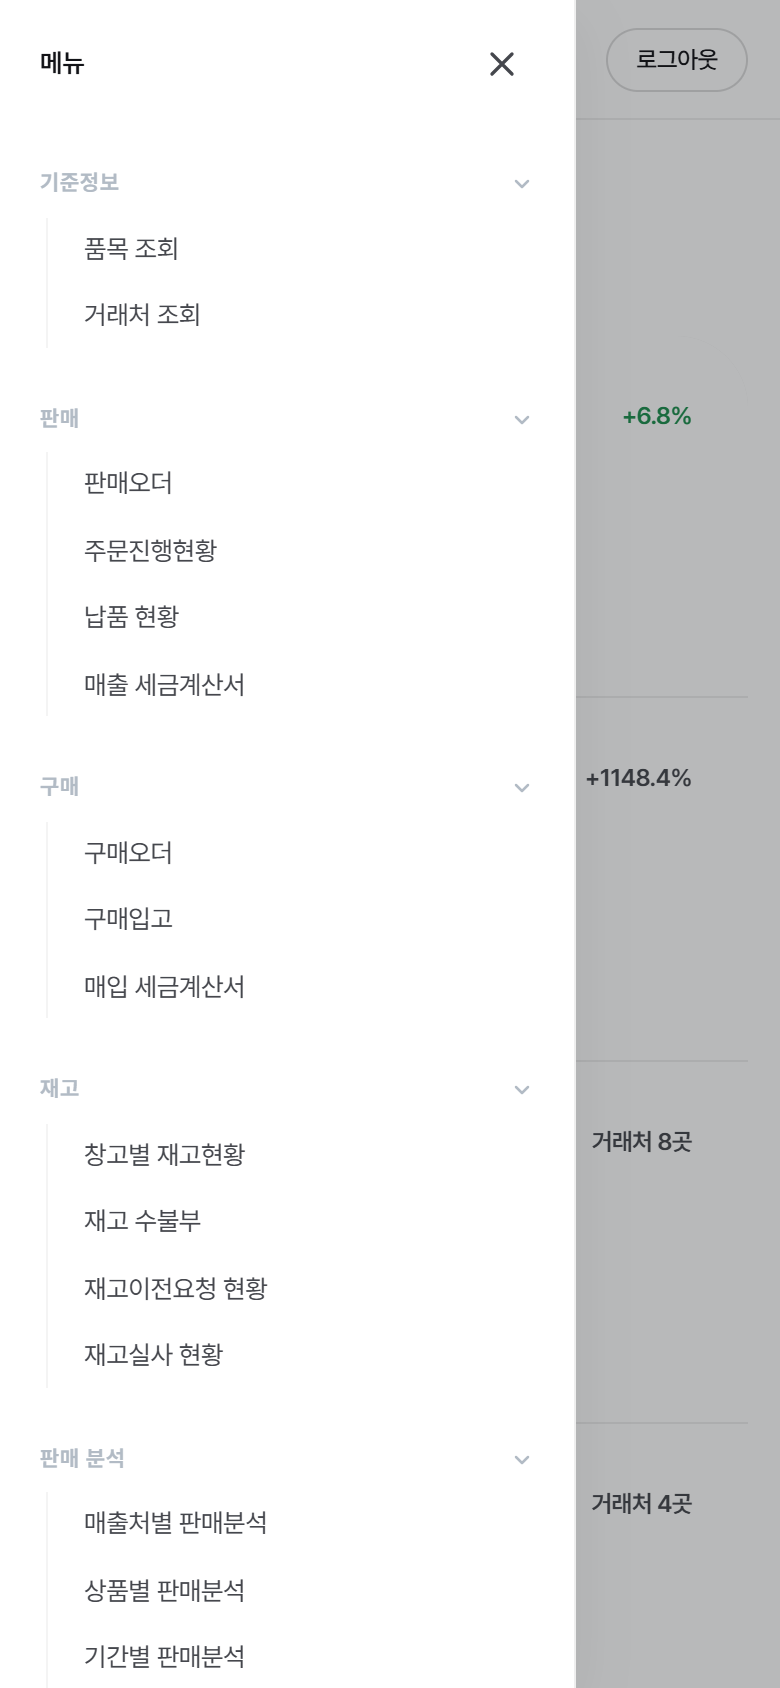
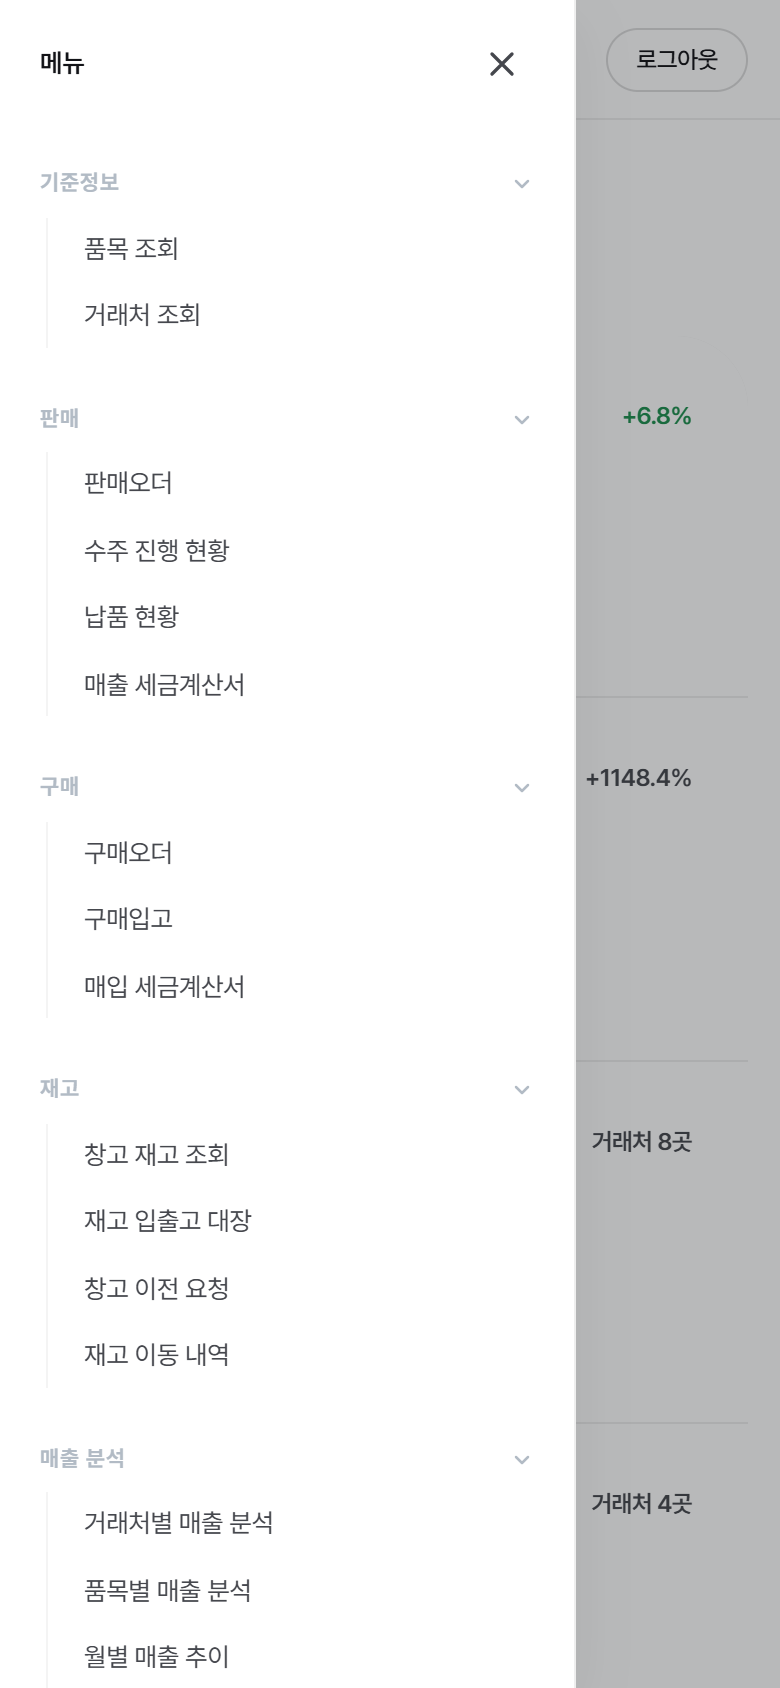
refactor(naming): 리포트·현황 화면 이름을 자체 체계로 변경
원본과 메뉴명·리포트명이 그대로 겹쳐 있어 식별 가능성이 남아 있었다. 이름만 바꾸되
**SAP B1 표준 문서명(판매오더·납품·매출/매입 세금계산서·구매오더·구매입고)은 유지**한다 —
어느 ERP에나 있는 표준 용어라 지문이 아니고, 바꾸면 오히려 도메인 정확도가 떨어진다.

  주문진행현황      → 수주 진행 현황
  재고 수불부       → 재고 입출고 대장
  창고별 재고현황   → 창고 재고 조회
  재고실사 현황     → 재고 이동 내역     (실제 내용이 원장 전기 목록이라 정확도도 올라간다)
  재고이전요청 현황 → 창고 이전 요청
  매출처별 판매분석 → 거래처별 매출 분석
  상품별 판매분석   → 품목별 매출 분석
  기간별 판매분석   → 월별 매출 추이
  일일 매출현황     → 일자별 매출 집계
  누적매출추이      → 매출 누계 추이
  거래처별 누적매출 → 거래처 매출 누계
  일일현황          → 일일 업무 요약
  (그룹) 판매 분석  → 매출 분석

메뉴 라벨 · 화면 제목(PageHeader) · README · 스모크 섹션명 · 스크린샷 캡션을 함께 맞췄고,
사이드바 라벨이 박히는 스크린샷 9장을 재생성했다.

⚠ 화면 코드와 URL(/screens/W3071 등)은 이번에 건드리지 않았다 — 사실 라벨보다 강한
   지문이라 별도 판단이 필요하다(42개 라우트 디렉터리 이름 변경 + 라이브 URL 변경).

검증: npm run verify + build 통과, 스크린샷 재생성 정상.

diff --git a/src/lib/menu.ts b/src/lib/menu.ts
@@ -18,8 +18,8 @@ export const MENU: MenuGroup[] = [
       { id: "items", label: "품목 조회", href: "/screens/items", ready: true, note: "OITM 직접 SELECT" },
       { id: "partners", label: "거래처 조회", href: "/screens/partners", ready: true, note: "OCRD 직접 SELECT" },
       // 숨김(중복) — 라우트 유지, 메뉴 미노출
-      { id: "W3110", label: "품목 마스터 조회", href: "/screens/W3110", ready: true, hidden: true, note: "OITM 재구성(중복 → items 대표)" },
-      { id: "W3120", label: "BP 마스터 조회", href: "/screens/W3120", ready: true, hidden: true, note: "OCRD 재구성(중복 → partners 대표)" },
+      { id: "W3110", label: "품목 마스터(구)", href: "/screens/W3110", ready: true, hidden: true, note: "OITM 재구성(중복 → items 대표)" },
+      { id: "W3120", label: "거래처 마스터(구)", href: "/screens/W3120", ready: true, hidden: true, note: "OCRD 재구성(중복 → partners 대표)" },
     ],
   },
   {
@@ -28,13 +28,13 @@ export const MENU: MenuGroup[] = [
     items: [
       // 판매오더(ORDR) — 조회+생성/수정/취소(SL) 정식 화면. 사용자 확정: 판매오더를 실제 사용(2026-07-10).
       { id: "orders", label: "판매오더", href: "/screens/orders", ready: true, note: "ORDR 판매오더 — 조회+CUD(SL). 생성은 목록 [신규]" },
-      { id: "W3071", label: "주문진행현황", href: "/screens/W3071", ready: true, note: "ORDR→ODLN→OINV 체인 롤업 — 거래처집계 + 오더라인 상세" },
+      { id: "W3071", label: "수주 진행 현황", href: "/screens/W3071", ready: true, note: "ORDR→ODLN→OINV 체인 롤업 — 거래처집계 + 오더라인 상세" },
       { id: "orders-new", label: "판매오더 입력", href: "/screens/orders/new", ready: true, hidden: true, note: "목록 [신규] 버튼으로 진입(메뉴 숨김)" },
       { id: "deliveries", label: "납품 현황", href: "/screens/deliveries", ready: true, note: "ODLN" },
       { id: "invoices", label: "매출 세금계산서", href: "/screens/invoices", ready: true, note: "OINV" },
-      // W3030 '판매오더 현황'은 실제 OINV(세금계산서) 조회 — 매출 세금계산서(invoices)와 소스 중복.
+      // W3030 '수주 목록(구)'은 실제 OINV(세금계산서) 조회 — 매출 세금계산서(invoices)와 소스 중복.
       // 사용자 결정(2026-07-10): 메뉴 숨김. 라우트는 유지(추후 '매출 실적 현황'으로 재명명 시 부활 가능).
-      { id: "W3030", label: "판매오더 현황", href: "/screens/W3030", ready: true, hidden: true, note: "OINV 기반. 숨김(invoices와 중복) — 2026-07-10 사용자 결정" },
+      { id: "W3030", label: "수주 목록(구)", href: "/screens/W3030", ready: true, hidden: true, note: "OINV 기반. 숨김(invoices와 중복) — 2026-07-10 사용자 결정" },
     ],
   },
   // 구매 그룹 활성(2026-07-10 사용자 요청): 구매오더(OPOR)·구매입고(OPDN)·매입세금계산서(OPCH) 조회+상세.
@@ -51,25 +51,25 @@ export const MENU: MenuGroup[] = [
     id: "inventory",
     label: "재고",
     items: [
-      { id: "W5070", label: "창고별 재고현황", href: "/screens/W5070", ready: true, note: "CF_W5000 Gubun=W" },
-      { id: "W5071", label: "재고 수불부", href: "/screens/W5071", ready: true, note: "OINM 원장 집계 — 월별/주별 피벗(이월·입고·출고·재고)" },
-      { id: "W5030", label: "재고이전요청 현황", href: "/screens/W5030", ready: true, note: "OWTQ" },
-      { id: "W5060", label: "재고실사 현황", href: "/screens/W5060", ready: true, note: "CF_W5000 Gubun=J (OINM)" },
+      { id: "W5070", label: "창고 재고 조회", href: "/screens/W5070", ready: true, note: "CF_W5000 Gubun=W" },
+      { id: "W5071", label: "재고 입출고 대장", href: "/screens/W5071", ready: true, note: "OINM 원장 집계 — 월별/주별 피벗(이월·입고·출고·재고)" },
+      { id: "W5030", label: "창고 이전 요청", href: "/screens/W5030", ready: true, note: "OWTQ" },
+      { id: "W5060", label: "재고 이동 내역", href: "/screens/W5060", ready: true, note: "CF_W5000 Gubun=J (OINM)" },
       // 숨김(중복)
-      { id: "W3130", label: "창고별 재고수량", href: "/screens/W3130", ready: true, hidden: true, note: "OITW 재구성(중복 → W5070 대표)" },
+      { id: "W3130", label: "창고 재고 요약", href: "/screens/W3130", ready: true, hidden: true, note: "OITW 재구성(중복 → W5070 대표)" },
     ],
   },
   {
     id: "sales-analysis",
-    label: "판매 분석",
+    label: "매출 분석",
     items: [
-      { id: "W3040", label: "매출처별 판매분석", href: "/screens/W3040", ready: true, note: "거래처 GROUP BY 집계" },
-      { id: "W3050", label: "상품별 판매분석", href: "/screens/W3050", ready: true, note: "품목 GROUP BY 집계" },
-      { id: "W3060", label: "기간별 판매분석", href: "/screens/W3060", ready: true, note: "월별 집계" },
-      { id: "W3070", label: "일일 매출현황", href: "/screens/W3070", ready: true, note: "일자별 집계(CF_W3070 버그 미재현)" },
-      { id: "W3080", label: "누적매출추이", href: "/screens/W3080", ready: true, note: "월별 누적" },
-      { id: "W3090", label: "거래처별 누적매출", href: "/screens/W3090", ready: true, note: "거래처 GROUP BY" },
-      { id: "W3100", label: "일일현황", href: "/screens/W3100", ready: true, note: "일자별 문서 크로스" },
+      { id: "W3040", label: "거래처별 매출 분석", href: "/screens/W3040", ready: true, note: "거래처 GROUP BY 집계" },
+      { id: "W3050", label: "품목별 매출 분석", href: "/screens/W3050", ready: true, note: "품목 GROUP BY 집계" },
+      { id: "W3060", label: "월별 매출 추이", href: "/screens/W3060", ready: true, note: "월별 집계" },
+      { id: "W3070", label: "일자별 매출 집계", href: "/screens/W3070", ready: true, note: "일자별 집계(CF_W3070 버그 미재현)" },
+      { id: "W3080", label: "매출 누계 추이", href: "/screens/W3080", ready: true, note: "월별 누적" },
+      { id: "W3090", label: "거래처 매출 누계", href: "/screens/W3090", ready: true, note: "거래처 GROUP BY" },
+      { id: "W3100", label: "일일 업무 요약", href: "/screens/W3100", ready: true, note: "일자별 문서 크로스" },
     ],
   },
   {

diff --git a/scripts/erp-smoke.ts b/scripts/erp-smoke.ts
@@ -9,8 +9,8 @@
  *  4. 프로시저 재구현 CF_W5000 두 모드
  *  5. 문서흐름 왕복 — 판매오더 생성 → 부분납품 → 미결수량 검증 → 취소 가드 → 납품 취소 → 복원
  *  6. 재고·약정 정합 (OITM.OnHand = OITW 합)
- *  7. 재고 수불부(W5071) 대사 — 화면과 같은 CTE 를 게이트웨이로 실행, 기말잔고 = OITW.OnHand
- *  8. 주문진행현황(W3071) 체인 롤업 — 납품수량 두 방식 일치 · 납품−미청구=송장 · 2단 체인 유지
+ *  7. 재고 입출고 대장(W5071) 대사 — 화면과 같은 CTE 를 게이트웨이로 실행, 기말잔고 = OITW.OnHand
+ *  8. 수주 진행 현황(W3071) 체인 롤업 — 납품수량 두 방식 일치 · 납품−미청구=송장 · 2단 체인 유지
  *
  * 🔴 항상 **메모리 DB** 로 돈다 — 스모크가 만드는 검증용 문서가 로컬 데모 DB(.data)를
  *    오염시키면 대시보드 '최근 트랜잭션'에 테스트 흔적이 남는다. import 전에 env 를 세팅해야
@@ -165,7 +165,7 @@ async function main(): Promise<void> {
     ["J", "20000101", "20991231", "", "", "", "", ""],
   );
   const subtotals = ledger.filter((r) => r.DOCENTRY === "");
-  check("Gubun='J' 재고전기리스트", ledger.length > 0, `${ledger.length}행`);
+  check("Gubun='J' 재고 이동 내역", ledger.length > 0, `${ledger.length}행`);
   check(
     "소계행 계약(DOCENTRY 빈값)",
     subtotals.length >= 2,
@@ -362,7 +362,7 @@ async function main(): Promise<void> {
     `끊긴 링크 ${dangling[0].n}건`,
   );
 
-  console.log("\n[7] 재고 수불부(W5071) 대사");
+  console.log("\n[7] 재고 입출고 대장(W5071) 대사");
   // 화면(W5071)과 동일한 CTE 를 read-only 게이트웨이로 실행한다.
   //  - CTE·CASE 집계가 게이트웨이 가드와 SQLite 어댑터를 통과하는지 (회귀 방지)
   //  - 위 [5] 에서 납품·오더를 취소했으므로 원장엔 역분개 행이 섞여 있다 → 그 상태에서도
@@ -463,7 +463,7 @@ ORDER BY i."ItemCode"`;
     );
   }
 
-  console.log("\n[8] 주문진행현황(W3071) 체인 롤업");
+  console.log("\n[8] 수주 진행 현황(W3071) 체인 롤업");
   // 화면이 쓰는 두 계산 방식이 어긋나지 않는지 — 어긋나면 진행률이 조용히 틀린다.
   //  ① 라인 기반: Quantity - OpenQty   ② 자식 합산: SUM(DLN1.Quantity) (취소 납품 제외)
   // 취소 오더를 제외하지 않으면 ①이 '전량납품'으로 둔갑하므로(engineCancel 이 OpenQty=0),

diff --git a/src/app/(app)/screens/W3100/page.tsx b/src/app/(app)/screens/W3100/page.tsx
@@ -1,9 +1,9 @@
 /**
- * W3100 — 일일현황 (분석 리포트 재설계)
- * ⚠ 역설계 확정: 원본에 '/W3100'='일일현황' 메뉴는 있으나,
+ * W3100 — 일일 업무 요약 (분석 리포트 재설계)
+ * ⚠ 역설계 확정: 원본에 '/W3100'='일일 업무 요약' 메뉴는 있으나,
  * 레거시 원본 소스 전체를 검색한 결과 이 URL을 처리하는 Spring 컨트롤러가 존재하지 않음
  * (인접 메뉴 W3060/W3070/W3080/W3090도 동일 — 리포트 그룹 전반이 메뉴명≠실제기능 상태).
- * 레거시 원본 재현이 불가능한 dead menu이므로, 메뉴명 '일일현황' 의도에 맞춰
+ * 레거시 원본 재현이 불가능한 dead menu이므로, 메뉴명 '일일 업무 요약' 의도에 맞춰
  * 문서목록이 아닌 **집계형 분석 리포트**로 재설계함(사용자 승인 2026-07-06, rules.md
  * "분석 리포트 화면(집계형)" 섹션 정책 적용).
  *
@@ -149,7 +149,7 @@ export default async function W3100Page({
   return (
     <div>
       <PageHeader
-        title="일일현황"
+        title="일일 업무 요약"
         description="W3100 · 분석 리포트(재설계) — 원본 미구현 메뉴(컨트롤러 없음, 404) 확인됨. 일자별 주문·납품·매출 크로스 요약"
       />
 
@@ -172,7 +172,7 @@ export default async function W3100Page({
             columns={COLUMNS}
             rows={rows}
             getRowKey={(r) => r.DocDate}
-            emptyText="조건에 맞는 일일현황 데이터가 없습니다."
+            emptyText="조건에 맞는 일일 업무 요약 데이터가 없습니다."
             storageKey={`b1w:cols:W3100:${user?.uid ?? "anon"}`}
           />
           {rows.length > 0 && (

diff --git a/src/app/(app)/screens/W3090/page.tsx b/src/app/(app)/screens/W3090/page.tsx
@@ -1,8 +1,8 @@
 /**
- * W3090 — 거래처별 누적매출 (분석 리포트 재설계)
+ * W3090 — 거래처 매출 누계 (분석 리포트 재설계)
  *
  * ⚠ 레거시 컨트롤러 불일치(docs/conversion/specs/W3090.json uncertainties 참조):
- * 원본 메뉴명은 '거래처별 누적매출'이지만 실제 /W3090 컨트롤러는 전혀 다른 용도
+ * 원본 메뉴명은 '거래처 매출 누계'이지만 실제 /W3090 컨트롤러는 전혀 다른 용도
  * (품목별 공급율 저장 관리화면 — 원본/데모 스키마 어디에도
  * 프로시저 미실재)라 원본 재현 자체가 불가능(dead menu). 문서목록 형태로 두는 대신
  * rules.md "분석 리포트 화면(집계형)" 룰에 따라 메뉴명 의도 기준으로 재설계함:
@@ -138,8 +138,8 @@ export default async function W3090Page({
   return (
     <div>
       <PageHeader
-        title="거래처별 누적매출"
-        description="W3090 · 거래처별 누적매출 분석 — OINV 기반 GROUP BY 집계(레거시 컨트롤러 불일치로 메뉴명 기준 재설계, spec 참조)"
+        title="거래처 매출 누계"
+        description="W3090 · 거래처 매출 누계 분석 — OINV 기반 GROUP BY 집계(레거시 컨트롤러 불일치로 메뉴명 기준 재설계, spec 참조)"
       />
 
       <SearchBar

diff --git a/src/app/(app)/screens/W3110/page.tsx b/src/app/(app)/screens/W3110/page.tsx
@@ -1,8 +1,8 @@
 /**
- * W3110 — 품목 마스터 조회 (레퍼런스 정밀복제)
+ * W3110 — 품목 마스터(구) (레퍼런스 정밀복제)
  * 데이터: OITM(품목 마스터) 직접 SELECT. 원본에 메뉴('/W3110')만 있고
  * 실제 구현이 원본에 전혀 없음(미구현 메뉴 추정) —
- * 메뉴명을 근거로 표준 품목 마스터 조회를 재구성. 그리드 컬럼은
+ * 메뉴명을 근거로 표준 품목 마스터(구)를 재구성. 그리드 컬럼은
  * 원본의 화면 메타 설정에서 목록 노출 컬럼 11개를 채택.
  * (docs/conversion/specs/W3110.json uncertainties 참조 — 역설계 확정사항)
  * 패턴: W3030/page.tsx 복제 (force-dynamic, 동적 WHERE 조립 + 파라미터 바인딩).
@@ -132,7 +132,7 @@ export default async function W3110Page({
 
   return (
     <div>
-      <PageHeader title="품목 마스터 조회" description="W3110 · 레퍼런스 정밀복제 — OITM 기반(레거시 미구현 메뉴, 표준 재구성)" />
+      <PageHeader title="품목 마스터(구)" description="W3110 · 레퍼런스 정밀복제 — OITM 기반(레거시 미구현 메뉴, 표준 재구성)" />
 
       <SearchPanel>
         <SearchField label="품목코드" name="sItemCode" defaultValue={sItemCode} placeholder="품목코드" />

diff --git a/src/app/(app)/screens/W3030/page.tsx b/src/app/(app)/screens/W3030/page.tsx
@@ -1,6 +1,6 @@
 /**
- * W3030 — 판매오더 현황 (레퍼런스 정밀복제)
- * 데이터: OINV(AR송장 헤더) 직접 SELECT. 메뉴명은 '판매오더 현황'이지만
+ * W3030 — 수주 목록(구) (레퍼런스 정밀복제)
+ * 데이터: OINV(AR송장 헤더) 직접 SELECT. 메뉴명은 '수주 목록(구)'이지만
  * 컨트롤러가 SLayer='Invoices'(Category='O')로 하드코딩되어 있어 실제 소스는 OINV.
  * (docs/conversion/specs/W3030.json uncertainties 참조 — 역설계 확정사항)
  * 패턴: orders/page.tsx 복제 (force-dynamic, 동적 WHERE 조립 + 파라미터 바인딩).
@@ -141,7 +141,7 @@ export default async function W3030Page({
 
   return (
     <div>
-      <PageHeader title="판매오더 현황" description="W3030 · 레퍼런스 정밀복제 — OINV 기반(레거시 실동작)" />
+      <PageHeader title="수주 목록(구)" description="W3030 · 레퍼런스 정밀복제 — OINV 기반(레거시 실동작)" />
 
       <SearchPanel>
         <SearchField label="문서번호" name="sDocNum" defaultValue={sDocNum} placeholder="문서번호" />

diff --git a/src/app/(app)/screens/W5060/page.tsx b/src/app/(app)/screens/W5060/page.tsx
@@ -1,6 +1,6 @@
 /**
- * W5060 — 재고실사 현황 (레퍼런스 정밀복제)
- * 메뉴명은 '재고실사 현황'이지만 실제 데이터는 재고이동 원장(OINM) 기반
+ * W5060 — 재고 이동 내역 (레퍼런스 정밀복제)
+ * 메뉴명은 '재고 이동 내역'이지만 실제 데이터는 재고이동 원장(OINM) 기반
  * '재고전기리스트'(CF_W5000 프로시저 내부 주석: JW_5010_01) — 재고실사(OINM 문서유형)뿐
  * 아니라 납품/입고/이전 등 모든 재고이동 트랜잭션을 포함. 레거시 실동작 그대로 보존
  * (docs/conversion/specs/W5060.json uncertainties 참조 — 역설계 확정사항).
@@ -227,7 +227,7 @@ export default async function W5060Page({
   return (
     <div>
       <PageHeader
-        title="재고실사 현황"
+        title="재고 이동 내역"
         description="W5060 · 레퍼런스 정밀복제 — OINM(재고이동 원장) 기반 재고전기리스트(레거시 실동작, CF_W5000)"
       />
 

diff --git a/src/app/(app)/screens/W3071/page.tsx b/src/app/(app)/screens/W3071/page.tsx
@@ -1,5 +1,5 @@
 /**
- * W3071 — 주문진행현황 (거래처 집계 → 오더라인 상세, 마스터-디테일)
+ * W3071 — 수주 진행 현황 (거래처 집계 → 오더라인 상세, 마스터-디테일)
  * 데이터: ORDR/RDR1 을 축으로 자식 납품(DLN1 BaseType=17)·매출송장(INV1 BaseType=15)을 롤업.
  *        상단 = 거래처 단위 3단계(주문·납품·매출) 병렬 집계, 하단 = 선택 거래처의 오더라인 진행 상세.
  *
@@ -357,7 +357,7 @@ ${lineWhere}
 
   return (
     <div>
-      <PageHeader title="주문진행현황" description="W3071 · ORDR→ODLN→OINV 체인 롤업 (취소 제외)" />
+      <PageHeader title="수주 진행 현황" description="W3071 · ORDR→ODLN→OINV 체인 롤업 (취소 제외)" />
       <SearchBar
         fields={SEARCH_FIELDS}
         values={{ searchFrom, searchTo, sCardCode, sCardGrp, sItemCd, sItemGrp, sSlpCode, sBplId, sStage, sel: effSel }}

diff --git a/src/app/(app)/screens/W3050/page.tsx b/src/app/(app)/screens/W3050/page.tsx
@@ -1,5 +1,5 @@
 /**
- * W3050 — 상품별 판매분석 (분석 리포트 · 재설계)
+ * W3050 — 품목별 매출 분석 (분석 리포트 · 재설계)
  * ⚠ 레거시 원본 불일치(메뉴명 ≠ 실제 데이터소스, docs/conversion/specs/W3050.json 참조,
  * 이전 확정: 실제 SLayer='CreditNotes' → ORIN, '상품별' 집계 요소 전무한 dead menu 판정)로
  * 문서목록 재사용 대신 **메뉴명 의도 기준 GROUP BY 집계 리포트로 재설계**(사용자 승인 2026-07-06, rules.md
@@ -133,7 +133,7 @@ export default async function W3050Page({
   return (
     <div>
       <PageHeader
-        title="상품별 판매분석"
+        title="품목별 매출 분석"
         description="W3050 · 품목별 매출 집계 리포트 — OINV/INV1 기반(신규 설계, docs/conversion/specs/W3050.json 참조)"
       />
 

diff --git a/src/app/(app)/screens/W5030/page.tsx b/src/app/(app)/screens/W5030/page.tsx
@@ -1,5 +1,5 @@
 /**
- * W5030 — 재고이전요청 현황 (레퍼런스 정밀복제)
+ * W5030 — 창고 이전 요청 (레퍼런스 정밀복제)
  * 데이터: OWTQ(재고이전요청 헤더) 직접 SELECT. 컨트롤러가 SLayer='InventoryTransferRequests'
  * (Category='A')로 하드코딩되어 있고 메뉴명·실제 데이터소스가 일치(OWTQ).
  * (docs/conversion/specs/W5030.json uncertainties 참조 — 역설계 확정사항)
@@ -175,7 +175,7 @@ export default async function W5030Page({
 
   return (
     <div>
-      <PageHeader title="재고이전요청 현황" description="W5030 · 레퍼런스 정밀복제 — OWTQ 기반(레거시 실동작)" />
+      <PageHeader title="창고 이전 요청" description="W5030 · 레퍼런스 정밀복제 — OWTQ 기반(레거시 실동작)" />
 
       <SearchBar
         fields={SEARCH_FIELDS}

diff --git a/src/app/(app)/screens/W3080/page.tsx b/src/app/(app)/screens/W3080/page.tsx
@@ -1,5 +1,5 @@
 /**
- * W3080 — 누적매출추이 (분석 리포트 화면 · GROUP BY 집계)
+ * W3080 — 매출 누계 추이 (분석 리포트 화면 · GROUP BY 집계)
  * 🚩 레거시 소스 전체에 `/W3080` 컨트롤러가 없음(완전한 죽은 메뉴 -- W3060/70/90도 동일).
  * 원본에 메뉴명만 있고 구현이 존재하지 않아, 메뉴명 기준 신규 설계
  * (rules.md "분석 리포트 화면(집계형)" 섹션, 사용자 승인 2026-07-06).
@@ -133,7 +133,7 @@ export default async function W3080Page({
   return (
     <div>
       <PageHeader
-        title="누적매출추이"
+        title="매출 누계 추이"
         description="W3080 · 분석 리포트(집계형) — 레거시 컨트롤러 부재(죽은 메뉴), OINV 월별 매출 GROUP BY 집계 + 누적합으로 신규 설계"
       />
 

diff --git a/src/app/(app)/screens/W3060/page.tsx b/src/app/(app)/screens/W3060/page.tsx
@@ -1,5 +1,5 @@
 /**
- * W3060 — 기간별 판매분석 (분석 리포트 재설계)
+ * W3060 — 월별 매출 추이 (분석 리포트 재설계)
  * 데이터: OINV(AR송장 헤더, CANCELED='N')를 DocDate 기준 월별(YYYY-MM)로 GROUP BY 집계.
  * ⚠ 레거시 소스(레거시 원본)에는 이 화면(/W3060)에 대응하는 컨트롤러가 존재하지 않음
  * (원본에 메뉴만 있고 구현이 없던 화면 — 형제 메뉴 W3040/W3050/W3070~W3130 전부 동일 상태).
@@ -118,7 +118,7 @@ export default async function W3060Page({
   return (
     <div>
       <PageHeader
-        title="기간별 판매분석"
+        title="월별 매출 추이"
         description="W3060 · 분석 리포트(월별 집계) — OINV 기반 재설계(레거시 미구현 메뉴)"
       />
 
